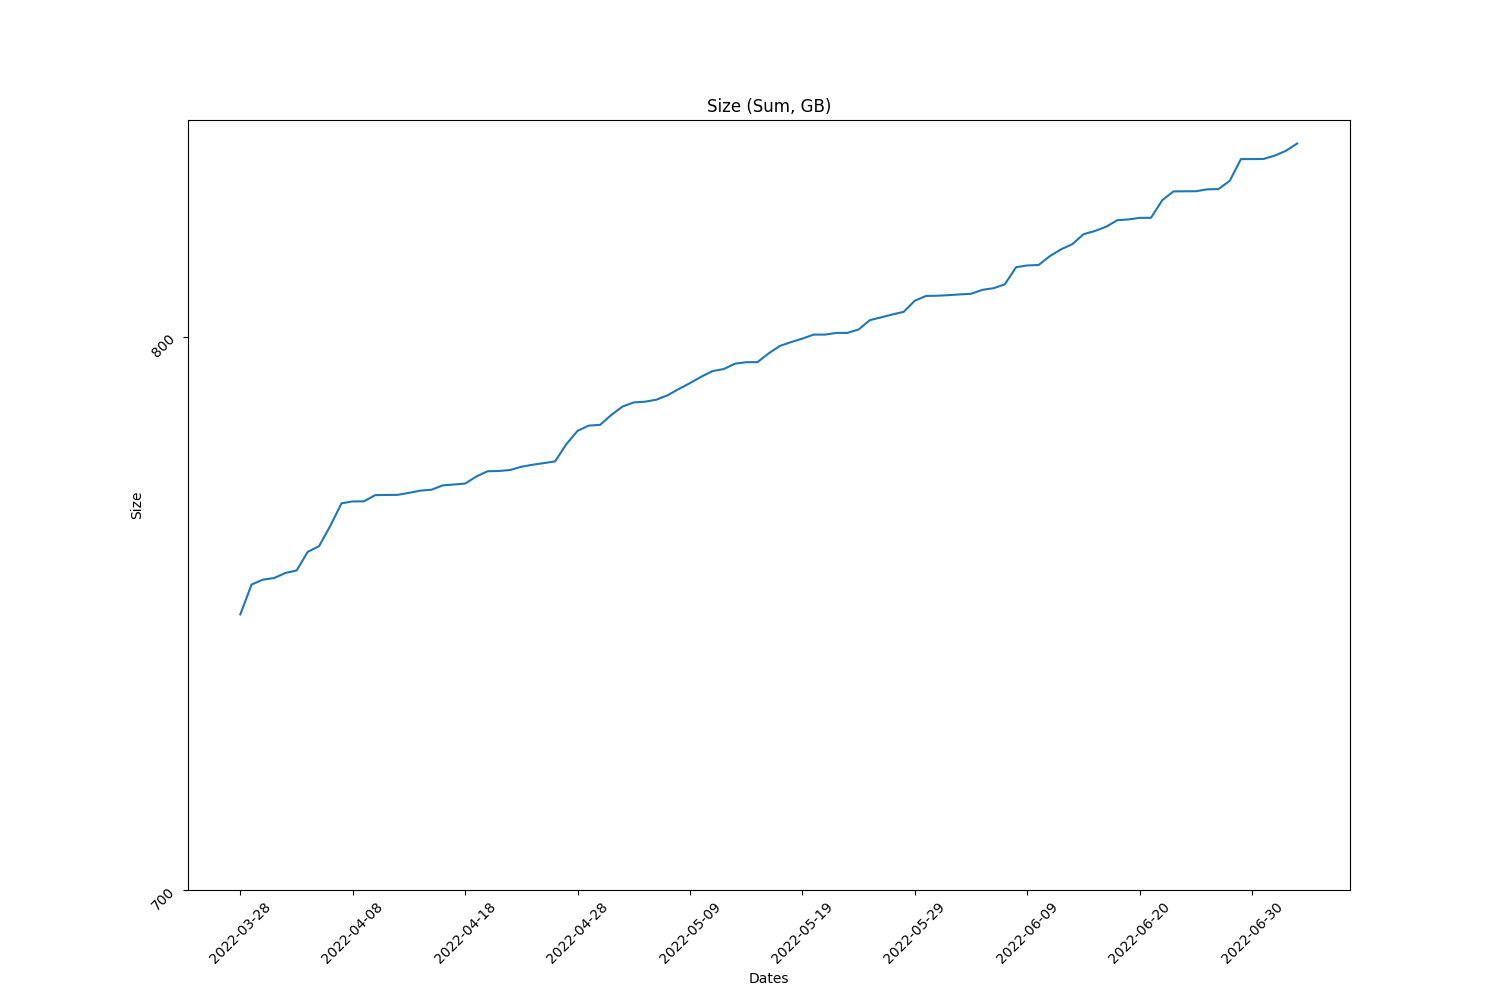
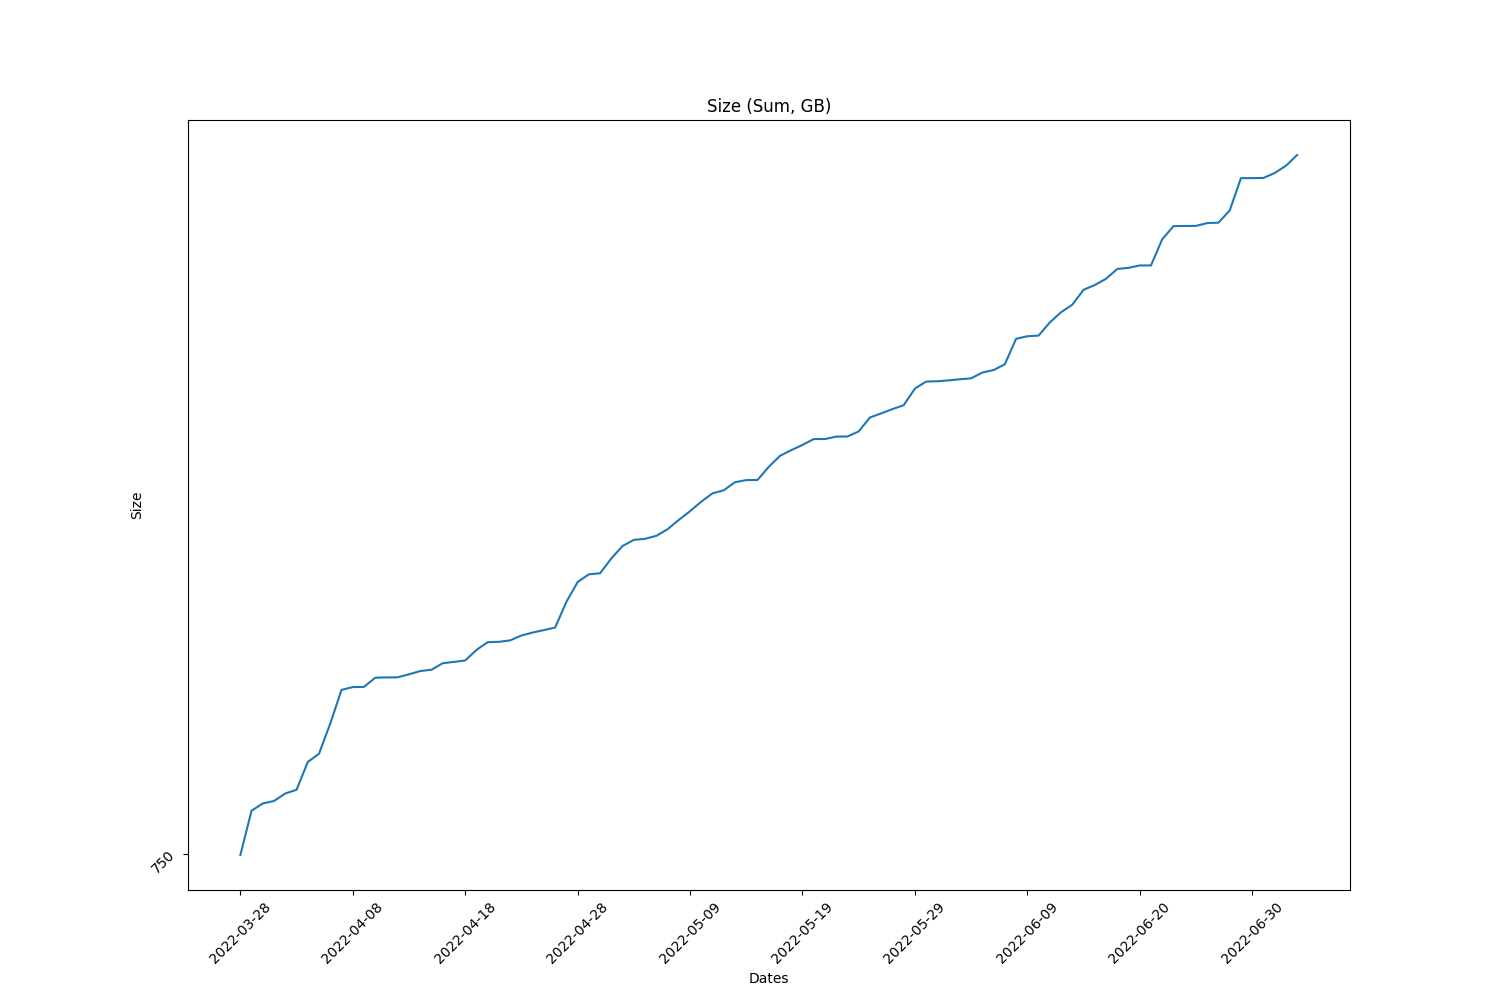
plot objects

diff --git a/report.py b/report.py
@@ -289,8 +289,8 @@ def get_draw_objects(file1name, file2name):
     num_objects[index] += num_objects[index-1]  
   
 
-  plot(dates[1:], sizes[1:], 'Size (Sum, GB)', 'Dates', 'Size', 0, 700 , 10, 100,file1name)
-  plot(dates[1:], num_objects[1:], 'Number of Objects', 'Dates', 'Number of Objects', 0, 1200, 10, 1500,file2name)
+  plot(dates[1:], sizes[1:], 'Size (Sum, GB)', 'Dates', 'Size', 0, 750 , 10, 100,file1name)
+  plot(dates[1:], num_objects[1:], 'Number of Objects', 'Dates', 'Number of Objects', 0, 12000, 10, 1500,file2name)
 
 def plot(x, y, title, x_label, y_label, x_start, y_start, x_spacing, y_spacing,filename):
   fig, ax = plt.subplots()
